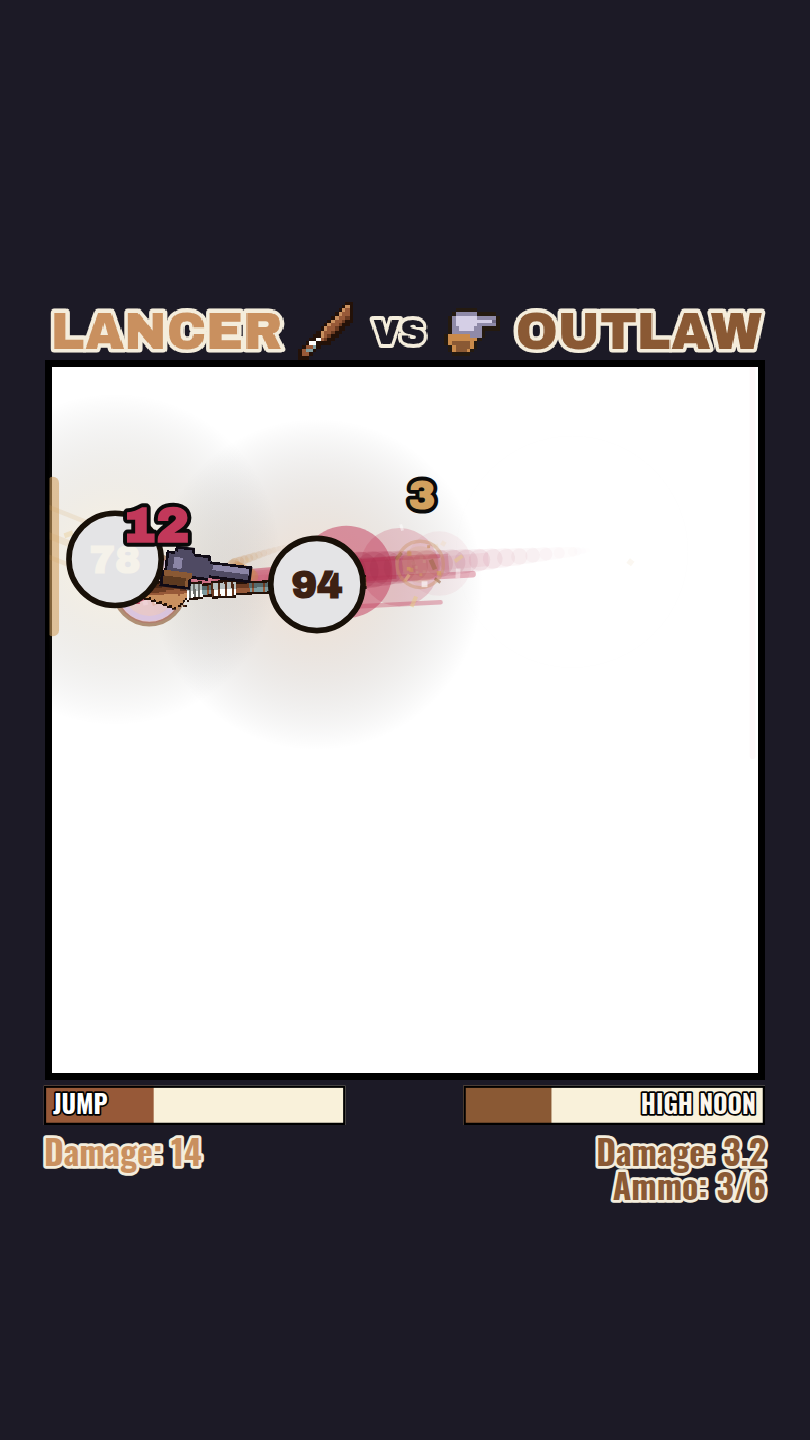
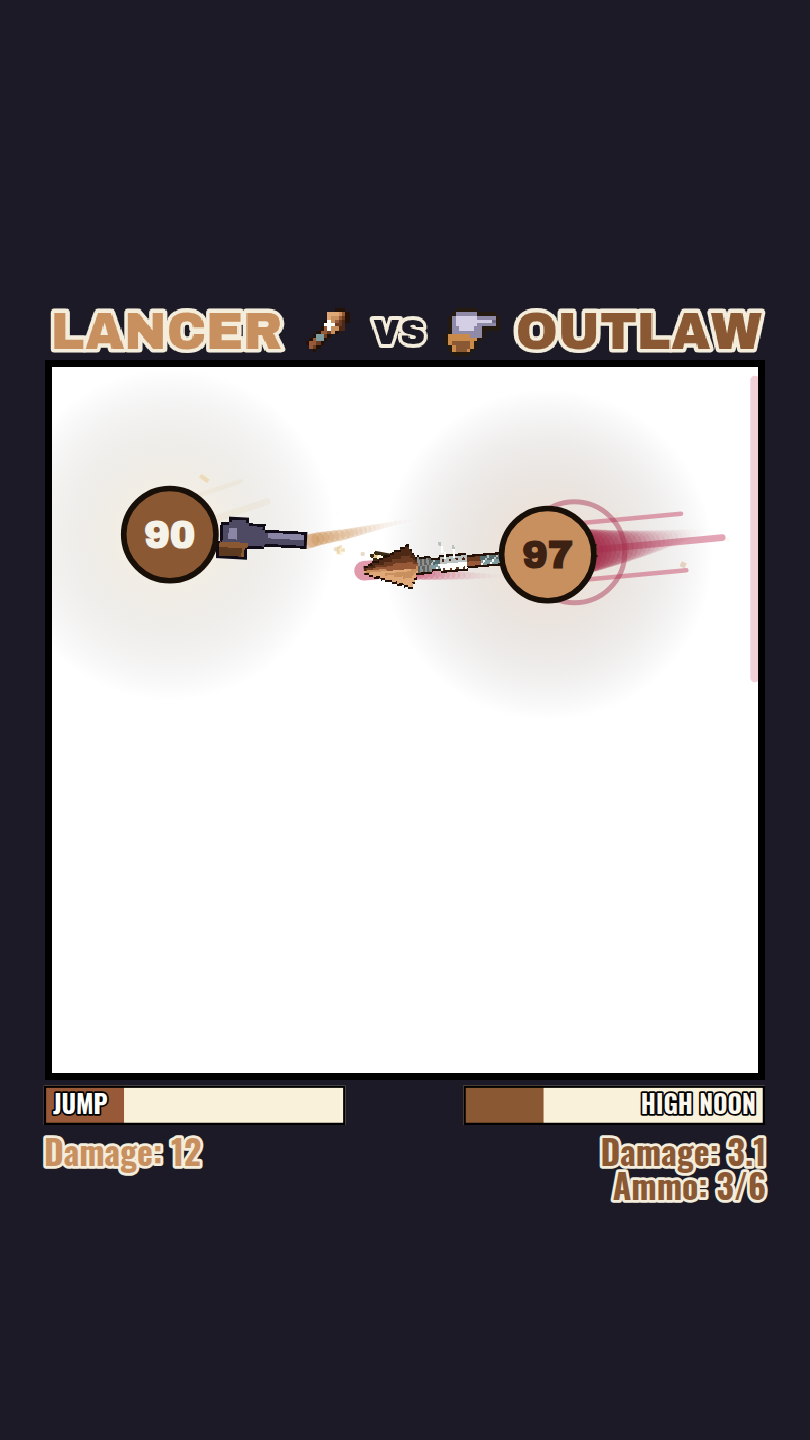
Redessine la lance en pointe de flèche, conformément à la maquette
La lance livrée était une **feuille arrondie** là où la maquette montre une
**pointe de flèche à bords droits**. Deux causes, et aucune n'était un choix.

1. Le profil de la tête était tracé par `half = 7.2 * (1 - u) ** 1.3`.
   L'exposant 1,3 rend la courbe **convexe** : c'est ce qui donne une feuille.
   Des bords droits demandent un exposant de 1. Les deux arêtes sont
   maintenant posées linéairement, explicitement.
2. La carte faisait 16 cellules de haut pour une tête à `half = 7.2` sur un
   axe à 7,5 : **son contour tombait hors carte**, et il ne restait aucune
   cellule pour les barbelures. Elles ne pouvaient pas être dessinées.

Le fond de l'erreur est de méthode : la tête a été *générée par une formule*
au lieu d'être *transcrite du dessin fourni*. Une formule interpole ce qu'on
ne lui a pas demandé.

La carte passe donc de 104 × 16 à 104 × 22, et ça ne coûte rien : `fighter.js`
pose `headH = map.h × scale`, `drawSpriteLeft` en tire
`w = headH × map.w / map.h`, donc la hauteur **s'annule** et la largeur
dessinée vaut toujours `map.w × scale` = 208 px logiques. Avec
`handle.length: -44`, la pointe reste à −44 + 208 = 164 : portée, hitbox et
taille de pixel sont inchangées. Seule la place disponible change. Grandir en
largeur, en revanche, aurait déplacé la pointe.

Trois éléments de la maquette manquaient aussi et sont ajoutés : les
**hachures blanches en diagonale** sur les segments bleu-vert (c'étaient des
[…]

diff --git a/src/data/pixelmaps.js b/src/data/pixelmaps.js
@@ -825,22 +825,34 @@ export const ICON_SABRE = deepFreeze({
  * écartés : cuivre `#975938 / #6b3b22 / #4d2815`, bleu-vert `#7e9ca0 / #556a6d`,
  * ligature `#fdfefc`, contour `#231108`.
  *
- * **L'encombrement ne bouge pas** : toujours 104 × 16 à `scale: 2`, donc
- * 208 × 32 px logiques, et `handle.length: -44` place la pointe à
- * −44 + 208 = **164**, la portée relevée. Changer le dessin ne change donc
- * ni la portée ni la hitbox.
+ * **La portée ne bouge pas, et la hauteur de carte n'y entre pas.**
+ * `fighter.js` pose `headH = map.h × scale`, et `drawSpriteLeft` en tire
+ * `w = headH × map.w / map.h` : la hauteur **s'annule**, la largeur dessinée
+ * vaut toujours `map.w × scale` = 208 px logiques. Avec `handle.length: -44`,
+ * la pointe reste à −44 + 208 = **164**. Grandir la carte en hauteur ne coûte
+ * donc ni portée, ni hitbox, ni taille de pixel — seulement de la place.
+ *
+ * Et il en fallait : la carte a **16 → 22** cellules de haut. À 16, la tête
+ * atteignait `half = 7,2` sur un axe à 7,5, donc son contour tombait **hors
+ * carte** et il ne restait aucune cellule pour les barbelures. C'est la moitié
+ * de la raison pour laquelle le premier jet rendait une feuille lisse au lieu
+ * de la pointe de flèche de la maquette ; l'autre moitié était un profil tracé
+ * en `(1 − u) ** 1.3`, donc **convexe**, là où la maquette a des bords droits.
+ * Les deux arêtes sont maintenant linéaires, posées explicitement.
  *
  * Conséquence de cadrage, déjà vraie de l'ancienne carte : la bille (rayon 41)
- * couvre les cellules 0 à ~43. Tout ce qui doit se voir — ligature, virole,
- * tête — est donc posé **au-delà de la cellule 43**, et le pommeau du talon
- * n'apparaît que quand la lance dépasse derrière la bille.
+ * couvre les cellules 0 à ~42. Tout ce qui doit se voir — hachures blanches
+ * des segments bleu-vert, ligature, cordelettes pendantes, virole, tête — est
+ * donc posé **au-delà de la cellule 43**, et le pommeau du talon n'apparaît
+ * que quand la lance dépasse derrière la bille.
  * ------------------------------------------------------------------ */
 export const LANCER_SPEAR = deepFreeze({
   w: 104,
-  h: 16,
+  h: 22,
   palette: {
     K: '#231108',
-    C: '#c9905f',
+    C: '#e0a877',
+    p: '#c9905f',
     c: '#975938',
     o: '#6b3b22',
     O: '#4d2815',
@@ -848,61 +860,73 @@ export const LANCER_SPEAR = deepFreeze({
     t: '#556a6d',
     W: '#fdfefc',
     w: '#b9c2c1',
-    g: '#6b6e6a',
+    g: '#8e918d',
+    G: '#5f625e',
   },
   rows: [
-    '....................................................................................CKK.................',
-    '................................................................................KO.KCCCKK...............',
-    '..................................................................................KCCCCCCKK.............',
-    '...............................................................................K.KCCCCCCCCCKKK..........',
-    '..KKKK....................................................KKKKKKKKKKK....KKKKKKWKCCCCCCCCCCCCCKK........',
-    'KKccccKKKKKKKKKKKKKKKKKKKKKKKKKKKKKKKKKKKKKKKKKKKKKKKKKKKKWoWWoWWoWWoKKKKWgWgWgWCCCCCCCCCCCCCCCCKKK.....',
-    'ccccccccOOccccccccccccccTcTTTTccccTcTTTTcTTTTcTTTTcTccccccWoWWoWWoWWoTcTTWgWgWgWCCCcCCCCCCCCCCCCCCCCCCK.',
-    'ccccccccOOccccccccccccccTcTTTTccccTcTTTTcTTTTcTTTTcTccccccWoWWoWWoWWoTcTTWgWgWgWcccccccccccccccccCCCCCCK',
-    'ooooooooOOooooooooooooootottttooootottttottttottttotoooooowOwwOwwOwwOtottwgwgwgwoooccccccoooooooooooOOOO',
-    'ooooooooOOooooooooooooootottttooootottttottttottttotoooooowOwwOwwOwwOtottwgwgwgwOooooooooooooooOOOOKKKKK',
-    'KKooooKKOOKKKKKKKKKKKKKKKKKKKKKKKKKKKKKKKKKKKKKKKKKKKKKKKKwOwwOwwOwwOKKKKwgwgwgwOOoooooooooOOOOOKKK.....',
-    '..KKKK..KK................................................KKKKKKKKKKK....KKKKKKKKOOooooOOOOOOOKK........',
-    '................................................................................KOOOOOOOOOOKKK..........',
-    '..................................................................................KOOOOOOKK.............',
-    '...................................................................................KOOOKK...............',
-    '....................................................................................OKK.................',
+    '........................................................................................................',
+    '...................................................................................KK...................',
+    '...................................................................................CCKK.................',
+    '..................................................................................KCCCCKKK..............',
+    '..................................................................................CCCCCCCCKK............',
+    '.................................................................................KCCCCCCCCCCKKK.........',
+    '.................................................................................CCppppCCCCCCCCKK.......',
+    '..KKKK..KK................................................KKKKKKKKKKKK....KKKKKKKCpppppppppCCCCCCKKK....',
+    'KKccccKKOOKKKKKKKKKKKKKKKKKKKKKKKKKKKKKKKKKKKKKKKKKKKKKKKKWoWWoWWoWWoWKKKKgGgGgGCppppppppppppppCCCCCKK..',
+    'ccccccccOOccccccccccccccccTWTTTWTTccccccTTTWTTTWTTTWccccccWWWWWWWWWWWWTWTTgGgGgGpppCCCCCCCCCCCCCCCCCCCKK',
+    'ccccccccOOccccccccccccccccWTTTWTTTccccccTTWTTTWTTTWTccccccWWWWWWWWWWWWWTTTgGgGgGpcccccccccccccpppppppppC',
+    'ooooooooOOooooooooooooooootttwtttwooooootwtttwtttwttoooooowwwwwwwwwwwwtttwGgGgGgccccccccccccccccccccoooO',
+    'ooooooooOOoooooooooooooooottwtttwtoooooowtttwtttwtttoooooowOwwOwwOwwOwttwtGgGgGgoocccccccccooooooooOOOKK',
+    'KKooooKKOOKKKKKKKKKKKKKKKKKKKKKKKKKKKKKKKKKKKKKKKKKKKKKKKKwwwwwWwwwWwwKKKKGgGgGgOooooooooooooooOOOOOKK..',
+    '..KKKK..KK................................................KKKKKWKKKWKK....KKKKKgKOoooooooooOOOOOOKKK....',
+    '...............................................................W...W...........K.OOooooOOOOOOOOKK.......',
+    '...............................................................W....W............KOOOOOOOOOOKKK.........',
+    '...............................................................w....W.............OOOOOOOOKK............',
+    '...............................................................w....W.............KOOOOKKK..............',
+    '.....................................................................w.............OOKK.................',
+    '.....................................................................w.............KK...................',
+    '........................................................................................................',
   ],
 });
 
 /** Icône du Dragoon : la pointe de lance, seule chose que l'adversaire voit venir. */
 export const ICON_LANCE = deepFreeze({
-  /** Icône de titre et de carte du Lancier — même gamme que `LANCER_SPEAR` :
-   *  tête cuivre, virole blanche, hampe cuivre à segment bleu-vert. Elle avait
-   *  gardé l'indigo de la première version de l'arme, ce qui laissait un
-   *  fragment de l'ancienne identité dans le titre d'arène. */
+  /**
+   * Icône de titre et de carte du Lancier. Elle n'est pas redessinée à la
+   * main : elle **échantillonne le profil de `LANCER_SPEAR`** sur un axe à
+   * 45°, hampe → virole → tête à bords droits. Redessinée, elle avait déjà
+   * divergé deux fois — restée indigo quand l'arme est passée au cuivre, puis
+   * restée une lame fine quand la tête est devenue une pointe de flèche.
+   */
   w: 16,
   h: 16,
   palette: {
     K: '#231108', // contour
-    C: '#c9905f', // cuivre éclairé
-    p: '#975938', // cuivre
+    C: '#e0a877', // cuivre éclairé, arête de lame
+    p: '#c9905f', // cuivre clair
+    c: '#975938', // cuivre
     s: '#6b3b22', // cuivre à l'ombre
+    O: '#4d2815', // cuivre sombre, biseau bas
     W: '#fdfefc', // virole
     T: '#7e9ca0', // bleu-vert
   },
   rows: [
-    '.............KK.',
-    '............KCK.',
-    '...........KCpK.',
-    '..........KCppK.',
-    '.........KCppsK.',
-    '........KCppsKK.',
-    '.......KCppsKK..',
-    '......KCppsKK...',
-    '.....KCppsKK....',
-    '....KKCpsKK.....',
-    '...KKWpsKK......',
-    '..KWWKKKK.......',
-    '.KppTK..........',
-    'KpTTK...........',
-    'KppK............',
-    'KKK.............',
+    '................',
+    '................',
+    '..........KKK...',
+    '........CCCpcK..',
+    '........CppcsK..',
+    '.......KWpcsOK..',
+    '.......WWWssO...',
+    '......KcWppOO...',
+    '.....KccspK.....',
+    '....KTTsK.......',
+    '...KcTTK........',
+    '..KccsK.........',
+    '...csK..........',
+    '....K...........',
+    '................',
+    '................',
   ],
 });
 

diff --git a/docs/FICHES.md b/docs/FICHES.md
@@ -460,7 +460,7 @@ sont converties ×1,25 vers le repère 720 × 1280.
 | **Arme** | *Lance de dragon* — **portée 164 px, la plus longue du jeu**. Talon qui dépasse de **42 px derrière le pivot**, longueur totale 206 px | mesuré |
 | Forme de la lame | **en feuille** : plus large au milieu qu'à ses deux bouts. Relevé en aplatissant la lance sur trois images nettes (t = 0 / 4,5 / 7,8 s) — la bille est localisée au sous-pixel, l'image tournée pour mettre la lance à l'horizontale, puis la demi-épaisseur mesurée colonne par colonne. Les trois profils concordent : **24 px de large à la bille, 32 au ventre, 21 près de la pointe**. Le premier portage l'affinait de façon monotone, ce que la vidéo dément | mesuré |
 | Silhouette de la lame | **c'est ici que le relevé cède la place à une maquette.** La vidéo montre une lame *en feuille* crantée ; le dessin retenu est celui de la maquette d'arme fournie : **hampe fine cuivre** `#975938` à segments bleu-vert `#7e9ca0`, **ligature blanche** `#fdfefc` aux deux tiers, **virole argent** de quatre anneaux, puis une **tête à barbelures** — évasement brutal sur 4 cellules, effilement rectiligne jusqu'à la pointe, arête centrale claire et biseau inférieur sombre. Couleurs pipettées sur la maquette, fond et arcs électriques écartés | maquette |
-| Rendu de la lance | une seule carte de **104 × 16 à `scale: 2`**. L'encombrement n'a pas bougé en changeant de dessin : 208 × 32 px logiques, `handle.length: -44`, et −44 + 104 × 2 = 164 tombe pile sur la portée relevée. Conséquence de cadrage : la bille (rayon 41) couvre les cellules 0 à ~43, donc ligature, virole et tête sont posées **au-delà** — c'est ce qui se voit en jeu | maquette, encombrement mesuré |
+| Rendu de la lance | une seule carte de **104 × 22 à `scale: 2`**. **La hauteur de carte n'entre pas dans la portée** : `fighter.js` pose `headH = map.h × scale` et `drawSpriteLeft` en tire `w = headH × map.w / map.h`, donc la hauteur s'annule et la largeur dessinée vaut toujours `map.w × scale` = 208 px logiques. Avec `handle.length: -44`, la pointe reste à 164. C'est ce qui a permis de passer de 16 à 22 cellules de haut sans toucher ni portée, ni hitbox, ni taille de pixel — et il fallait cette place, car à 16 le contour de la tête tombait hors carte. Conséquence de cadrage : la bille (rayon 41) couvre les cellules 0 à ~42, donc hachures, ligature, cordelettes, virole et tête sont posées **au-delà** — c'est ce qui se voit en jeu | maquette, encombrement mesuré |
 | **Orientation de la lance** | **elle suit le cap de déplacement.** Ni rotation libre, ni visée : elle est soudée à la vitesse. Mesuré sur 141 images réparties sur toute la vidéo, lance isolée par ACP de son contour sombre — **6,6° d'écart médian au cap de déplacement** (3,7° sur les images les mieux isolées, 94 % sous 15°) contre **37,9° au cap vers l'adversaire**. Vrai à tous les régimes : 10,6° en marche lente, 6,1° en croisière, 4,8° à l'accélération, 6,1° en pleine charge. La fiche porte `weapon.spin: 0` et c'est `abilities/lancer.js` qui recopie `heading` | mesuré |
 | **Charge** | viser → verrouiller → foncer. En croisière la bille tient 400–450 px/s vidéo (soit les 540 de la fiche) ; pendant une charge (t = 8,70 → 8,84 s) elle monte à 1 125–1 160 px/s vidéo, soit **~1 400 en repère jeu**, sur **~0,15 s** | mesuré |
 | Garde | **aucune**. Ce qui ressemblait à un losange de garde sur les premières captures est derrière la bille, donc invisible en jeu : au-delà du bord de la bille le profil ne montre aucun renflement | mesuré |

diff --git a/CLAUDE.md b/CLAUDE.md
@@ -71,7 +71,7 @@ qui tienne sur toute la vidéo.
 | Ce qu'il porte | Relevé | Ce qui est dans la fiche |
 | --- | --- | --- |
 | Corps | **cuivre `#c9905f`** — écart volontaire : la vidéo montre une bille indigo `#574a84` | `look.body`, `radius: 41` |
-| Arme | **hampe fine cuivre à segments bleu-vert, ligature blanche, virole argent, grosse tête à barbelures** — d'après la maquette, pas la vidéo | `lancerSpear`, carte 104 × 16 à `scale: 2` |
+| Arme | **hampe cuivre à segments bleu-vert hachurés de blanc, ligature à cordelettes pendantes, virole argent, pointe de flèche à bords droits et barbelures** — d'après la maquette, pas la vidéo | `lancerSpear`, carte 104 × 22 à `scale: 2` |
 | Portée | centre → pointe = **164 px**, la plus longue du roster | `weapon.reach: 164` |
 | Talon | dépasse de 42 px **derrière** le pivot | `handle.length: -44` — −44 + 104 × 2 = 164 |
 | **Angle d'arme** | **la lance suit le cap de déplacement** : 6,6° d'écart médian sur 141 images, contre 37,9° du cap vers l'adversaire | `weapon.spin: 0`, et `abilities/lancer.js` recopie `heading` |
@@ -415,6 +415,29 @@ couleurs par percentile plutôt que par moyenne, le JPEG bruite).
   « recharge Infinitys ». `select.js` teste maintenant `Number.isFinite` et
   écrit « passif ». Le moteur, lui, s'en moque : le module n'arme aucune
   minuterie.
+- **Générer un sprite par une formule au lieu de transcrire la maquette.** La
+  première lance livrée était une **feuille arrondie** là où la maquette montre
+  une **pointe de flèche à bords droits**. Deux causes, et aucune n'était un
+  choix : le profil était tracé en `half = 7.2 * (1 - u) ** 1.3`, et l'exposant
+  1,3 rend la courbe **convexe** — des bords droits demandent un exposant de 1 ;
+  et la carte faisait 16 cellules de haut pour une tête à `half = 7.2` sur un
+  axe à 7,5, donc **le contour tombait hors carte** et il ne restait aucune
+  place pour les barbelures. Une formule interpole ce qu'on ne lui a pas
+  demandé ; quand un dessin est fourni, les arêtes qui font la silhouette se
+  posent **explicitement**.
+- **La hauteur d'une carte d'arme ne coûte rien.** `fighter.js` pose
+  `headH = map.h × scale` et `drawSpriteLeft` en tire `w = headH × map.w/map.h`
+  — la hauteur **s'annule**, la largeur dessinée vaut toujours `map.w × scale`.
+  Grandir une carte en hauteur ne change donc ni la portée, ni la hitbox, ni la
+  taille du pixel : seulement la place disponible. La lance est passée de 16 à
+  22 cellules pour loger sa tête, sans qu'aucune valeur de la fiche ne bouge.
+  Grandir en **largeur**, en revanche, déplacerait la pointe.
+- **Une icône redessinée à la main diverge de son arme.** `ICON_LANCE` avait
+  déjà lâché deux fois : restée indigo quand l'arme est passée au cuivre, puis
+  restée une lame fine quand la tête est devenue une pointe de flèche. Elle
+  **échantillonne maintenant le profil de `LANCER_SPEAR`** sur un axe à 45° —
+  hampe, virole, tête — donc elle ne peut plus mentir sur l'arme qu'elle
+  annonce.
 - **Le talon de la lance passe derrière le pivot.** `drawSpriteLeft` blitte le
   sprite à partir de `handle.length` : une valeur **négative** le fait démarrer
   en arrière de la bille. Corollaire : `handle.length + map.w × scale` doit

diff --git a/README.md b/README.md
@@ -257,7 +257,7 @@ prise dessus se convertit en **×1,25** vers ce repère 720 × 1280.
 | BLADE RUSH                    | horloge de 9 s + 6 % par coup, ruée de 1,5 s, verrou à 115 ms |
 | Précision du Hors-la-loi      | 25 coups au but en 38,6 s = **0,65 coup/s** |
 | Boule Lancier                 | mesurée `#574a84` indigo ; **le jeu la met en cuivre `#c9905f`** pour l'accorder à l'arme redessinée. Traînée cramoisie `#a32b4a` conservée |
-| Lance du Lancier              | centre → pointe 164 px, talon 42 px **derrière** le pivot. Le **dessin** ne vient pas de la vidéo mais d'une maquette d'arme : hampe fine cuivre à segments bleu-vert, ligature blanche, virole argent, tête à barbelures. L'encombrement, lui, reste celui du relevé |
+| Lance du Lancier              | centre → pointe 164 px, talon 42 px **derrière** le pivot. Le **dessin** ne vient pas de la vidéo mais d'une maquette d'arme : hampe cuivre à segments bleu-vert hachurés de blanc, ligature à cordelettes pendantes, virole argent, et une **pointe de flèche à bords droits** avec barbelures à la base. L'encombrement, lui, reste celui du relevé |
 | Progression « Damage » (Lancier) | 10,00 → 20,00 par pas de **2,00**, à la touche portée ; 5 touches en 27,6 s, soit 0,181 coup/s et 2,54 PV/s (le moteur rend 0,195 et **2,52**) |
 | Angle de lance (Lancier)      | **elle suit le cap de déplacement** : 6,6° d'écart médian sur 141 images de toute la vidéo, contre 37,9° du cap vers l'adversaire. Elle ne tourne pas librement et ne vise pas |
 | Charge du Lancier             | le corps file à ~1 400 px/s pendant ~0,15 s contre 540 en croisière, lance dans l'axe |
